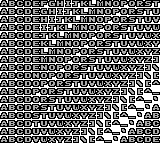
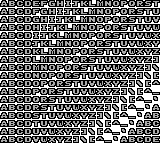
cgb support on fifo

Changed region(s): [[0.1875, 0.1667, 0.25, 0.4167], [0.2188, 0.4444, 0.25, 0.5], [0.2188, 0.0833, 0.25, 0.1389]]

diff --git a/test_results/readme.md b/test_results/readme.md
@@ -2,7 +2,7 @@
 ## Acid Fifo Tests
 | Result | Test Name |
 |--------|-----------|
-| 👀 | cgb-acid2 |
+| 👌 | cgb-acid2 |
 | 👌 | dmg-acid2 |
 ## Acid Tests
 | Result | Test Name |
